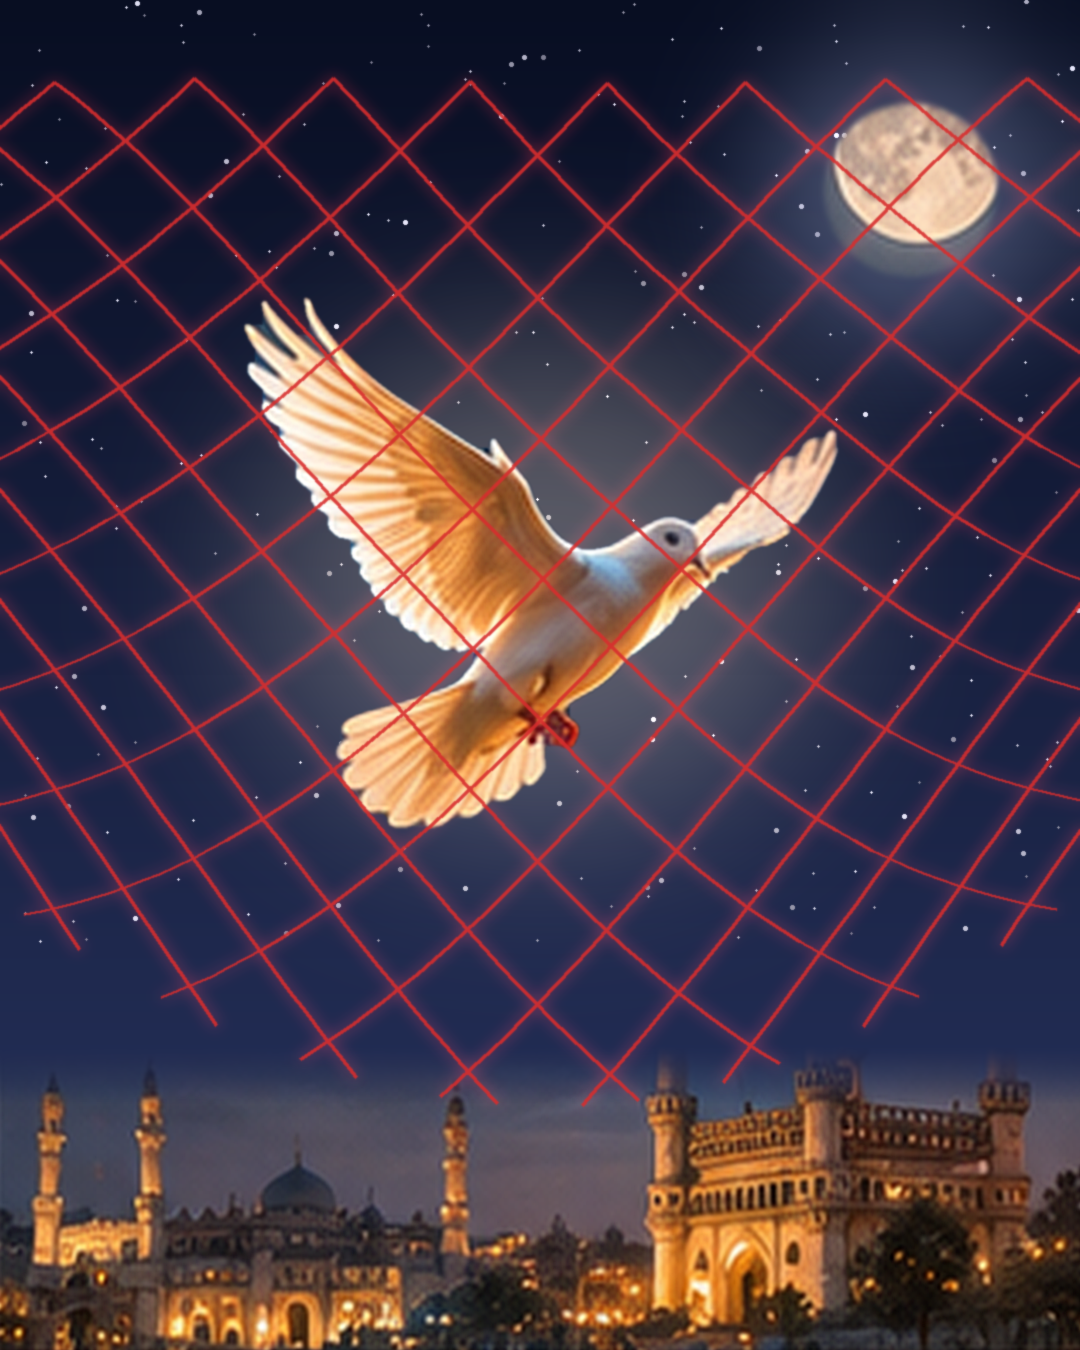
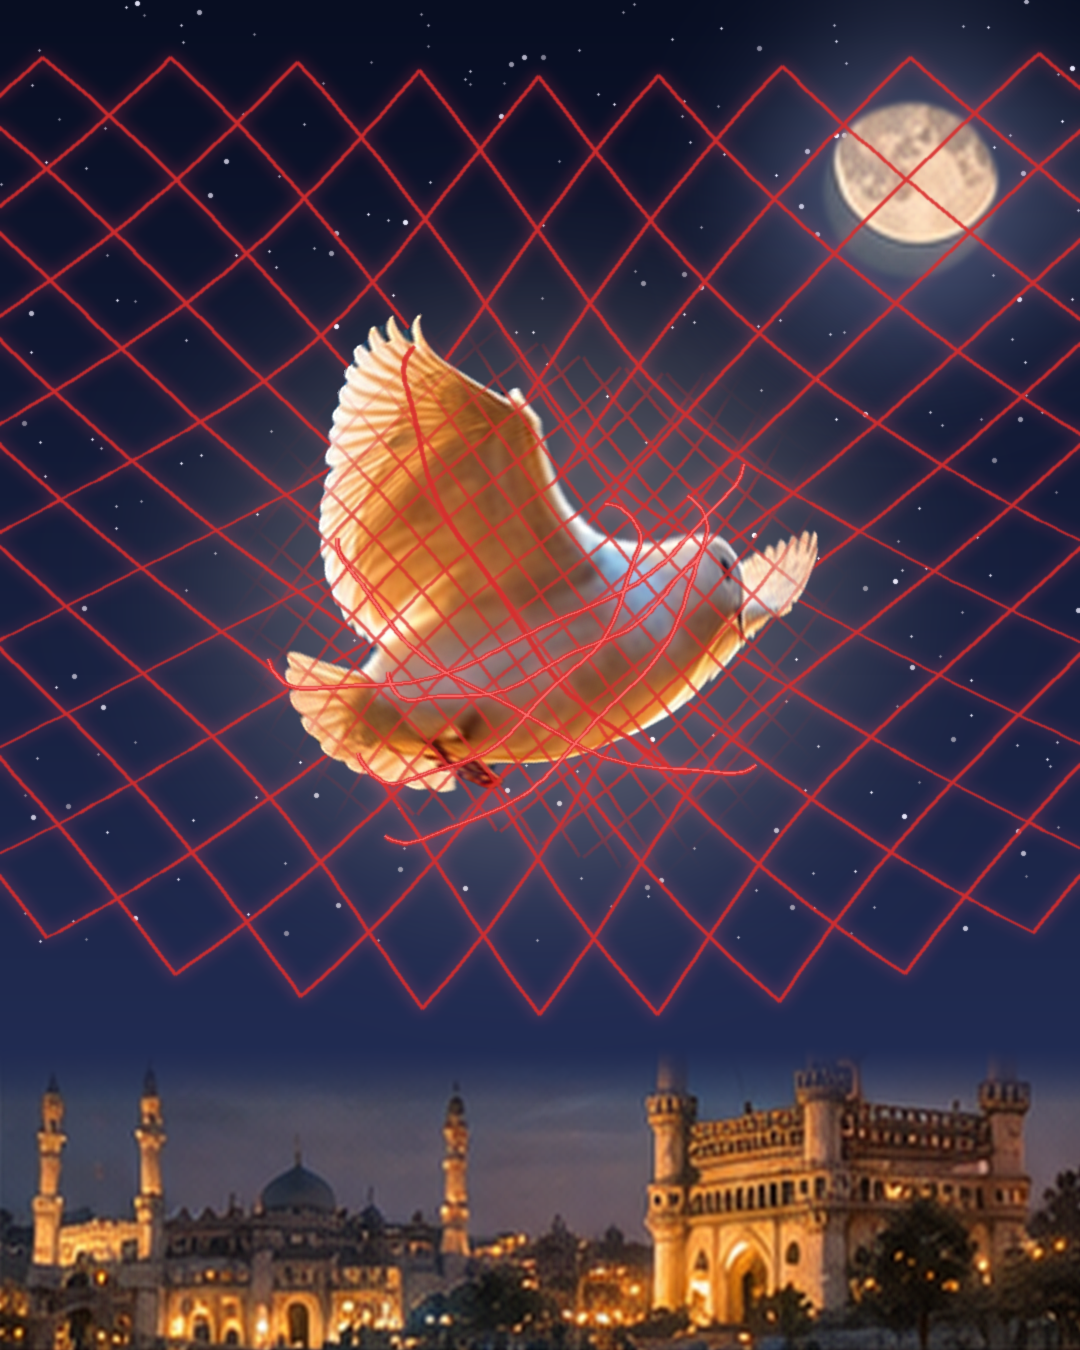
NAF6 Shorts 2/3/5: reviewer picture fixes (caught dove, thread on foot, no disc behind Allah's name, crowd blurred)
Claude-Session: https://claude.ai/code/session_01GAgT6JHTKoSgF7eULv7uw6

Changed region(s): [[0.0, 0.0311, 1.0, 0.8089], [0.55, 0.7778, 0.5806, 0.8089]]

diff --git a/tools/shorts/projects/2026-11-nizam-ul-amal-6/slides.py b/tools/shorts/projects/2026-11-nizam-ul-amal-6/slides.py
@@ -1,6 +1,8 @@
 """Picture slideshows for Nizam-ul-Amal-e-Fuqara part 6. Times are in NAF006.mp3.
 Pictures are reused from earlier dars (NA*, HB*, N-HB*) and the light backgrounds (L03/L04/L07/L08/L11/L12).
-N6-NET / N6-NETBIRD are drawn (red threads over the night sky; the dove of NA2-06 caught in them).
+N6-NET / N6-NETBIRD are drawn (red threads over the night sky; the dove of NA2-06 caught in them, wings pulled in and
+wound with thread); N6-FOOT is NA2-06 with a red thread knotted round the dove's feet. NA4-15b is NA4-15 with the
+crowd softly blurred (no faces while the talk is of lowering the gaze).
 NA6-01 (a spread of many dishes) is still to be generated; until it is in images/, NA3-01 stands in.
 Faces of saints are hidden in light (glow); the shaykh is never shown with a face."""
 import os
@@ -24,7 +26,7 @@ SLIDES = {
         (543.9, "NA4-17", "all", {"text": "نظر بر قدم"}),
         (556.7, "NA4-16", "all", {"fx": "rays", "text": "خلوت در انجمن"}),       # solitude in the crowd
         (574.4, "NA4-09", "all"),                                                 # gaze lowered
-        (590.0, "NA4-15", "all", {"fx": "dust"}),                                 # faces enter the heart through the eyes
+        (590.0, "NA4-15b", "all", {"fx": "dust"}),                                # faces enter the heart through the eyes (crowd blurred)
         (608.4, "N-HB5-03", "all", {"fx": "dust"}),                               # the heart scattered
     ],
     "n6_one_point": [
@@ -35,11 +37,12 @@ SLIDES = {
     "n6_hunters": [                                                               # the eyes are hunters
         (660.2, "NA2-06", "all"),                                                 # the bird of the gaze, free
         (672.7, "N6-NET", "all"),                                                 # red threads: a net spread out
-        (692.3, "N6-NETBIRD", "all"),                                             # a bird sits in the net: caught
-        (713.4, "L04", "all", {"fx": "rays", "text": "لال ڈورے ہیں بند پائے نظر"}),
+        (692.3, "N6-NETBIRD", "all"),                                             # a bird sits in the net: caught, tangled in the threads
+        (713.4, "L04", "all", {"fx": "rays", "text": "لال ڈورے ہیں\nبند پائے نظر", "text_at": (0.5, 0.165)}),   # two lines: clear of the edges
         (720.6, "L04", "all", {"fx": "rays", "text": "صید کرتی ہیں یار کی آنکھیں"}),
-        (733.5, "NA2-06", (230, 160, 720, 560), {"frame": True}),                # band-e-pa: the thread on the foot
-        (752.0, "L08", "all", {"fx": "rays", "surprise": [(766.6, 0.5, 0.36, "اللہ")]}),
+        (733.5, "N6-FOOT", (230, 160, 720, 560), {"frame": True}),               # band-e-pa: the thread on the foot
+        (752.0, "L08", "all", {"fx": "rays"}),
+        (766.6, "L08", "all", {"fx": "rays", "text": "اللہ"}),                    # the word over the pillar of light (no burst disc)
     ],
     "n6_tasawwur": [                                                              # holding the elder in thought
         (1099.1, "NA2-07", "all", {"glow": [(0.605, 0.165, 0.21), (0.61, 0.26, 0.14)]}),
@@ -61,7 +64,7 @@ SLIDES = {
         (1868.5, "HB3-03", _HB, {"fx": "dust"}),                                  # when will you reach your goal?
     ],
     "n6_tawheed": [
-        (1943.2, "NA4-15", "all", {"fx": "dust"}),                                # thinking about everything
+        (1943.2, "NA4-15b", "all", {"fx": "dust"}),                                # thinking about everything
         (1953.6, "L08", "all", {"fx": "rays", "surprise": [(1954.0, 0.5, 0.36, "قُلْ هُوَ اللّٰهُ أَحَدٌ")]}),
         (1959.3, "NA4-03", "all", {"fx": "rays"}),                                # one direction
         (1973.2, "L12", "all", {"fx": "rays", "text": "توحید"}),
